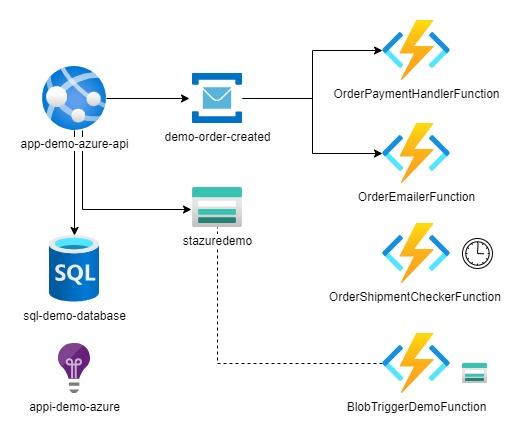
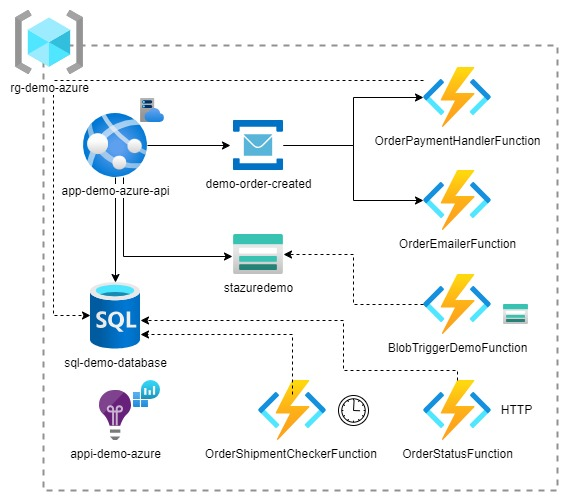
Updated diagram and readme.

diff --git a/README.md b/README.md
@@ -31,5 +31,5 @@
   - [AZ-204: Implement Azure App Service web apps / Explore Azure App Service](https://learn.microsoft.com/en-us/training/modules/introduction-to-azure-app-service/1-introduction) Exercise unit 7
   - [Host a web application with Azure App Service](https://learn.microsoft.com/en-us/training/modules/host-a-web-app-with-azure-app-service/1-introduction) Exercise unit 7
 
-Login with the same account where you activated the sandbox and switch to the sandbox tenant:
+Login with the same account where you activated the sandbox in Microsoft Learn and switch to the sandbox tenant in the Azure portal:
  ![image](https://github.com/user-attachments/assets/bfd5b860-974a-45d5-bde1-3541104883c4)
